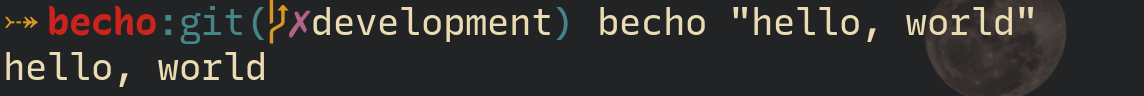
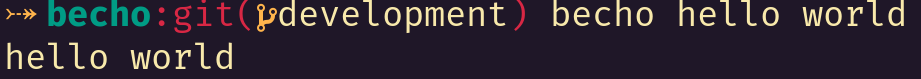
docs: update screenshots.

Changed region(s): [[0.0, 0.0, 1.0, 1.0], [0.0, 0.5316, 0.2736, 0.9114]]

diff --git a/README.md b/README.md
@@ -12,10 +12,7 @@ Here you can see screenshots of some real examples using `becho`.
 ![](preview/preview_0.png)
 ![](preview/preview_1.png)
 ![](preview/preview_2.png)
-![](preview/preview_3.png)
 
-> The font used in the screenshots is
-[`Rec Mono Duotone` from `arrowtype`](https://github.com/arrowtype/recursive).
 
 ## Development
 
@@ -105,6 +102,7 @@ By default, `becho` will not interpret escape sequences that are in the
 arguments of a command line. If you want, there is the flag `-e` or `--escape`
 that will make `becho` escape new line and tab sequences. A tab character will
 be replaced by two spaces.
+
 
 ### Colors
 
